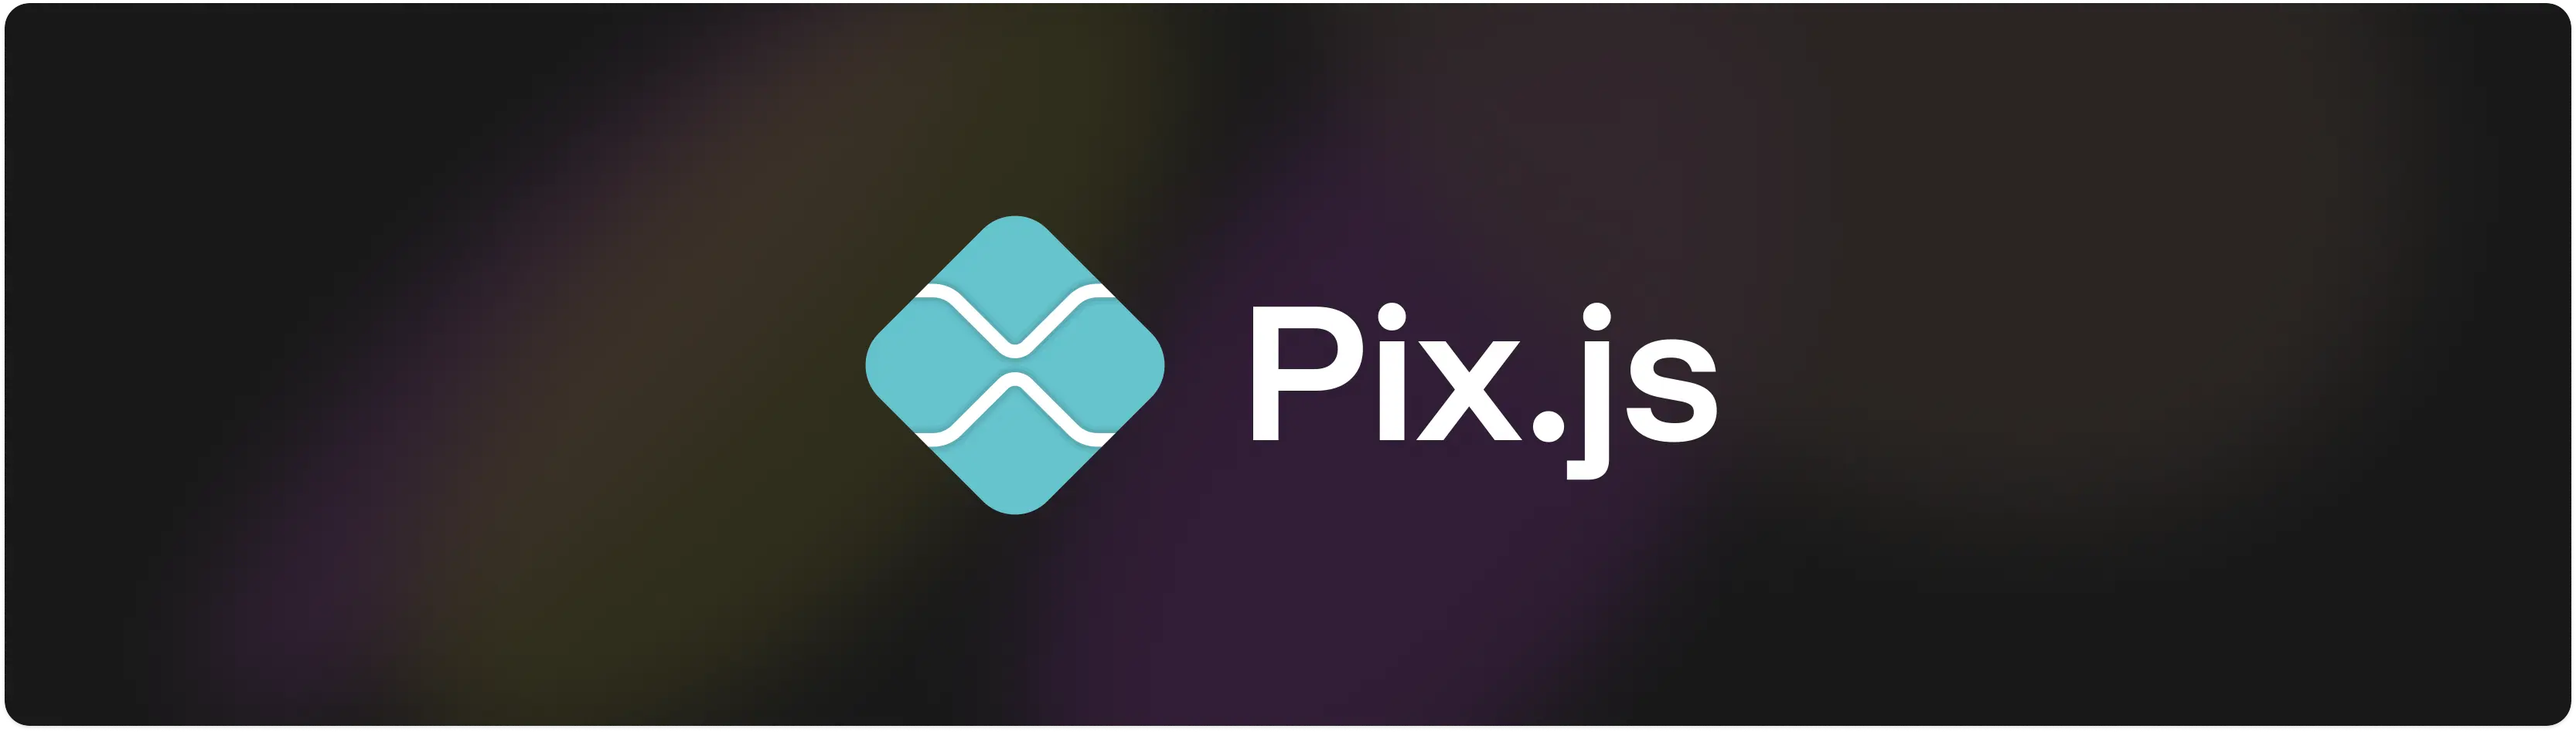
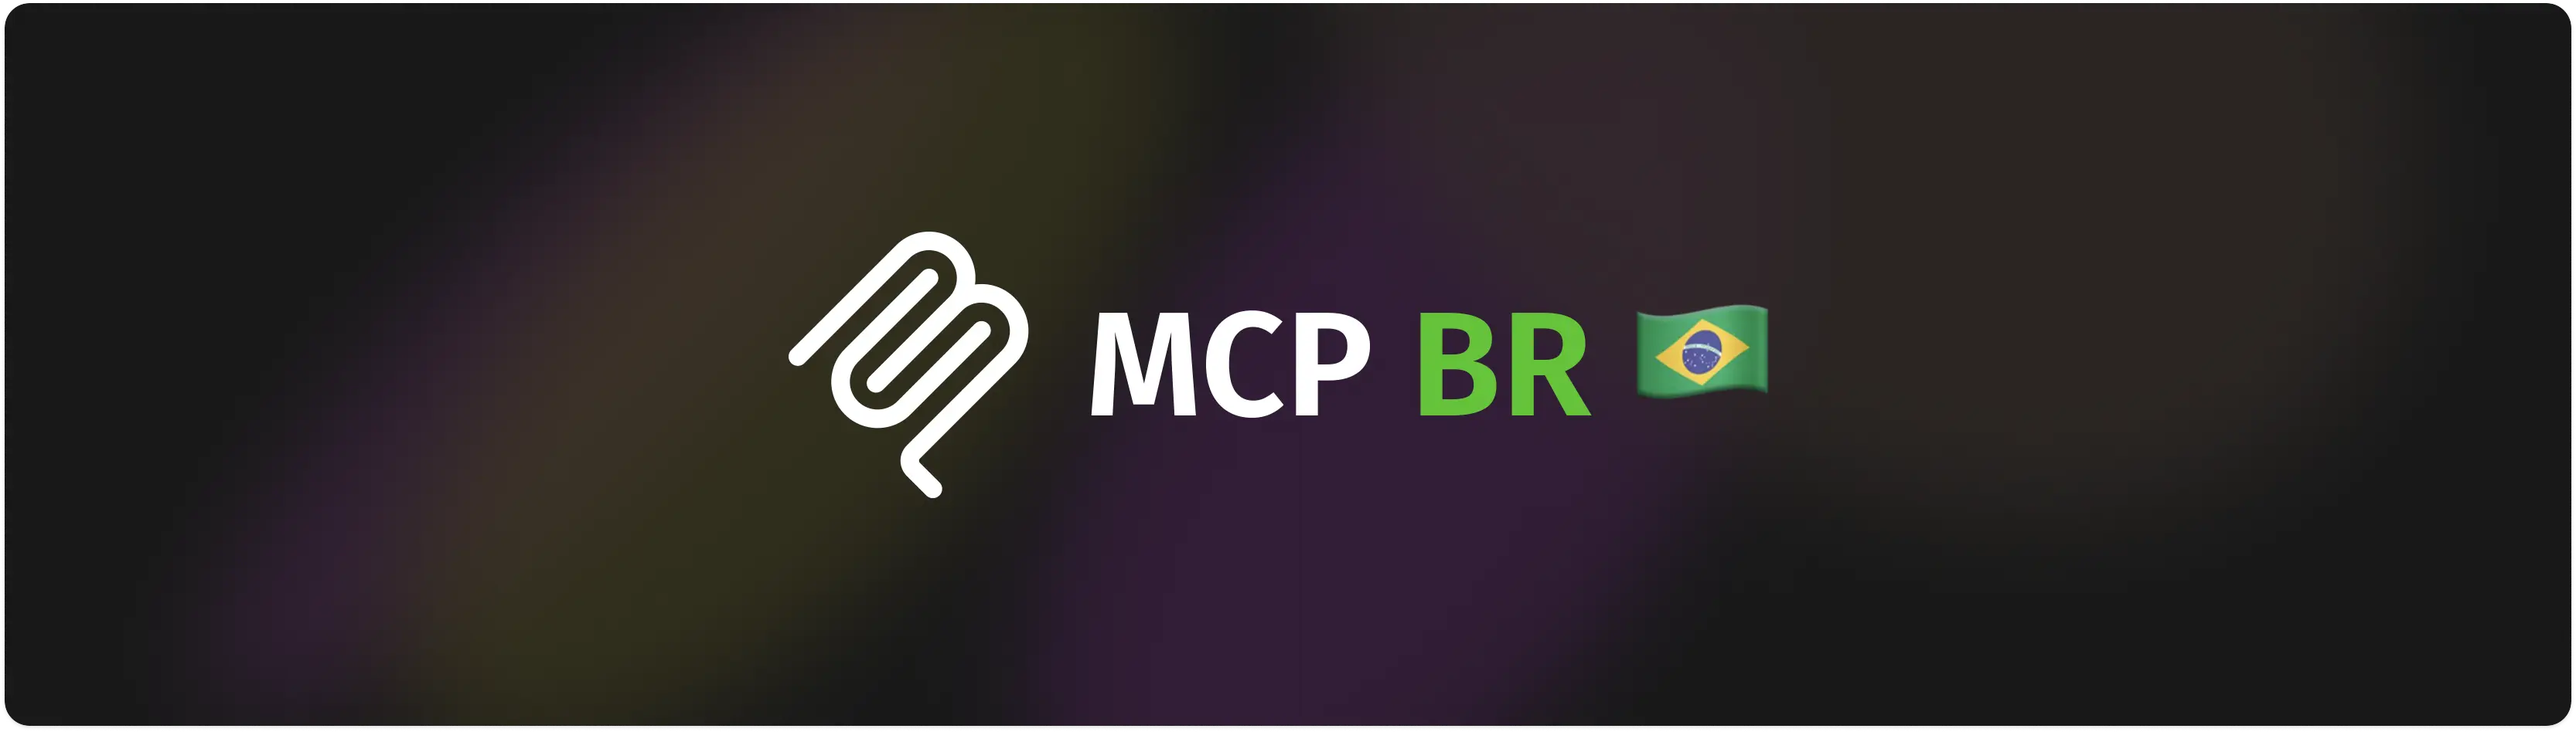
docs: update readme

Changed region(s): [[0.2809, 0.2753, 0.6867, 0.7036]]

diff --git a/readme.md b/readme.md
@@ -1,39 +1,20 @@
 <picture>
-  <source media="(prefers-color-scheme: dark)" srcset="https://github.com/victor-teles/pix.js/raw/main/.github/banner-dark.webp">
-  <img alt="pix.js banner" src="https://github.com/victor-teles/pix.js/raw/main/.github/banner.webp">
+  <source media="(prefers-color-scheme: dark)" srcset="https://github.com/victor-teles/mcpbr/raw/main/.github/banner-dark.webp">
+  <img alt="mcpbr banner" src="https://github.com/victor-teles/mcpbr/raw/main/.github/banner.webp">
 </picture>
 
 <div align="center">
     <img src="https://badgen.net/npm/v/pix.js?" alt="NPM Version" />
-    <img src="https://github.com/victor-teles/pix.js/actions/workflows/ci.yaml/badge.svg" alt="Build Status" />
+    <img src="https://github.com/victor-teles/mcpbr/actions/workflows/ci.yaml/badge.svg" alt="Build Status" />
 </a>
 </div>
 <br />
 
-<div align="center"><strong>Pix.js is a set of tools for interacting with Pix and Dict API.</strong></div>
+<div align="center"><strong>Diretório de MCPs de APIs e serviços brasileiros 🇧🇷</strong></div>
 
 <br />
 
-## Installation
 
-Working with qrcode:
+## Instalação
 
-```bash
-npm install @pix.js/qrcode
-```
-
-Working with validators:
-
-```bash
-npm install @pix.js/validator
-```
-
-Working with dict:
-
-```bash
-npm install @pix.js/dict
-```
-
-## Documentation
-
-Visit https://pix-js.vercel.app/en to view the documentation.
+Visite o site https://mcpbr.com para ver as instruções de instalação de cada MCP.
